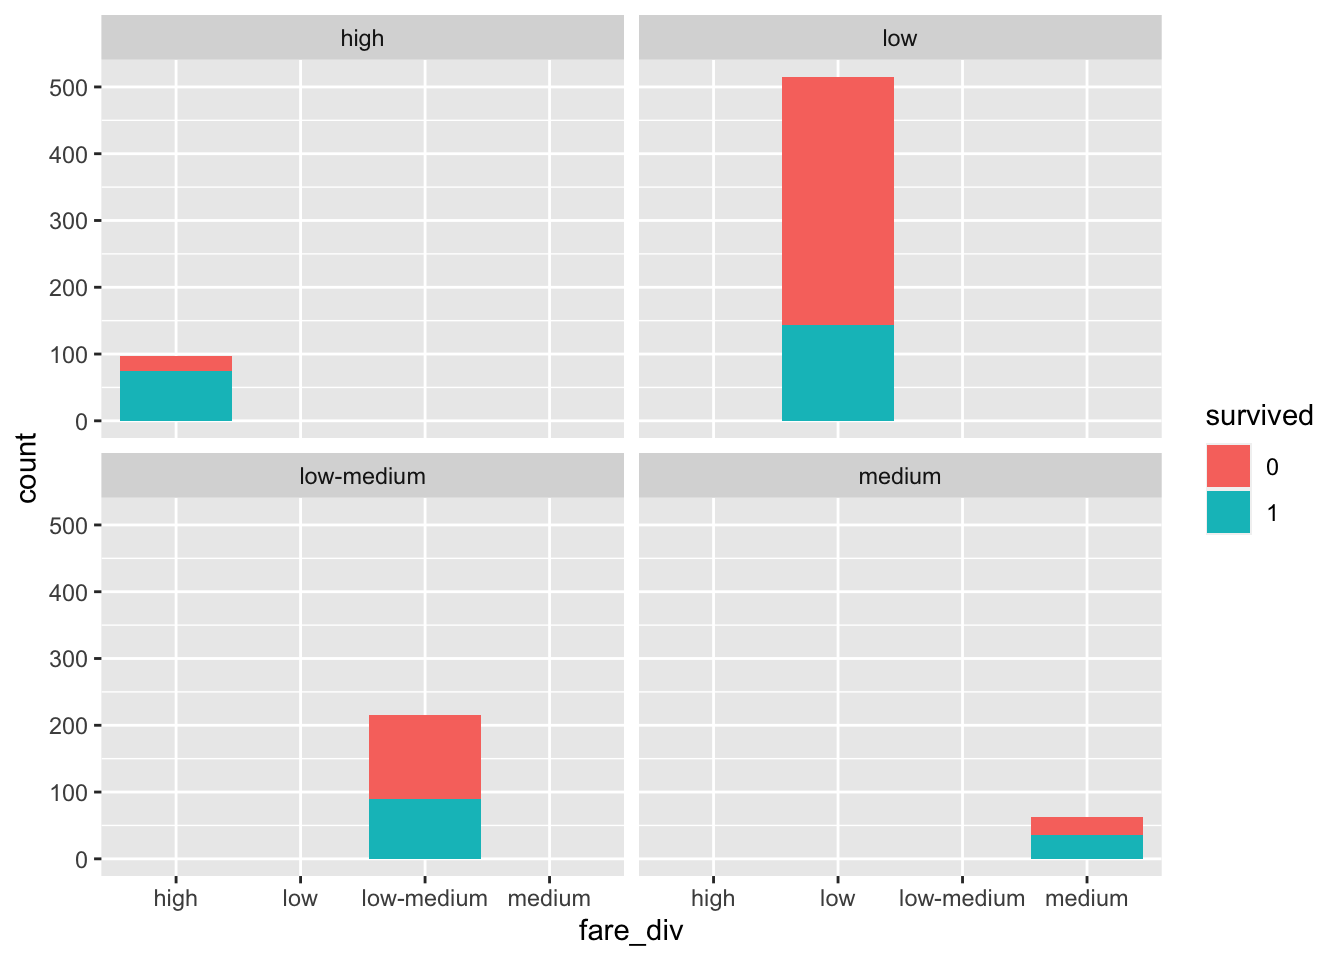
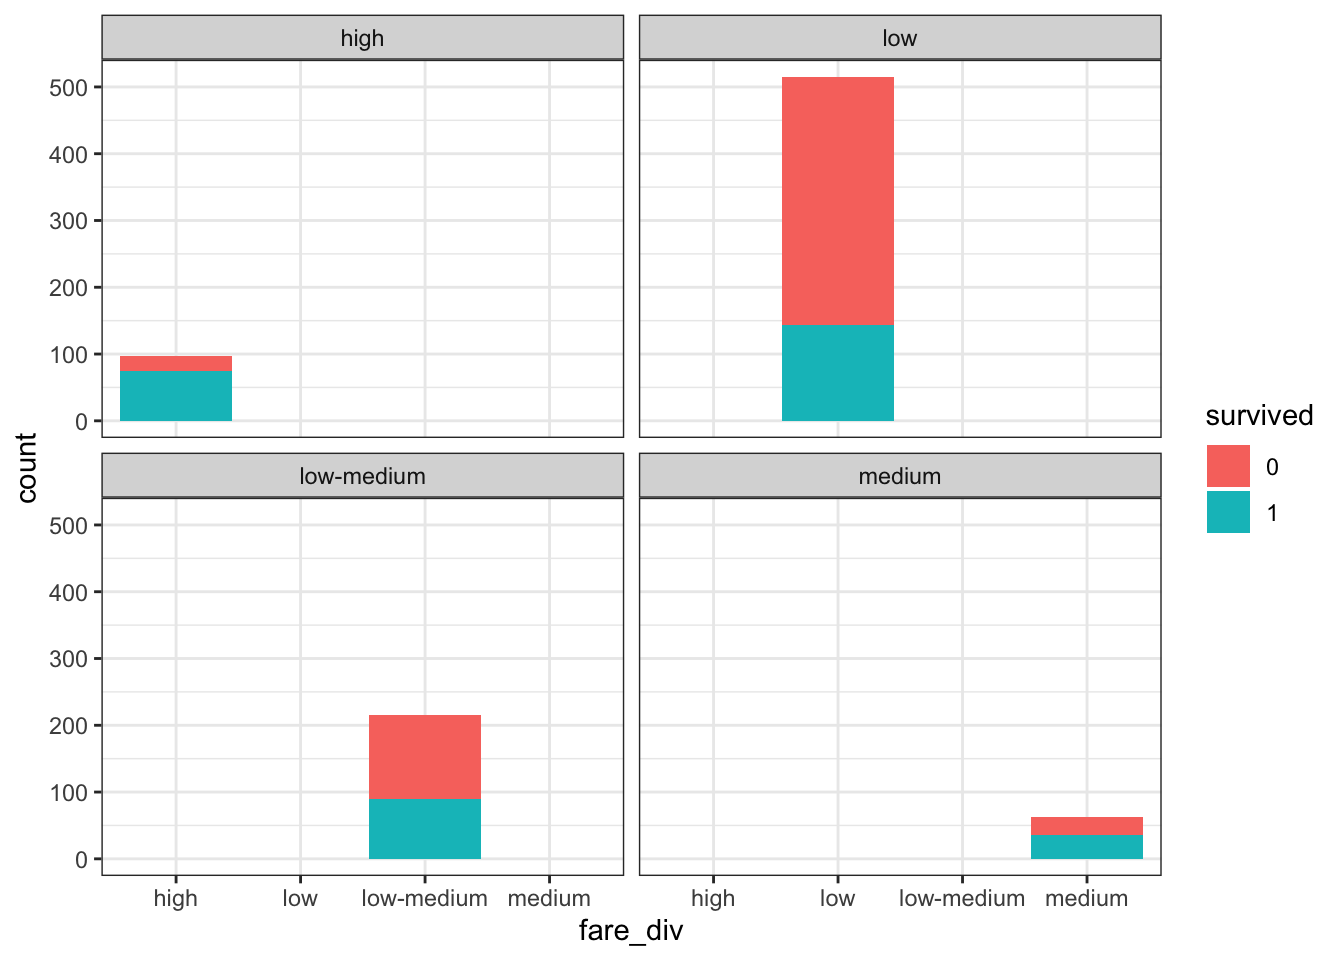
.

diff --git a/Titanic.html b/Titanic.html
@@ -69,6 +69,7 @@ h6 {
 }
 </style>
 
+<link rel="stylesheet" href="style.css" type="text/css" />
 
 
 
@@ -361,7 +362,7 @@ df_titanic %&gt;% count(fare, sort =  TRUE)</code></pre>
 <pre class="r"><code>df_titanic &lt;- df_titanic %&gt;% mutate(fare_div = ifelse(fare &lt;= 20, &quot;low&quot;,
                                    ifelse(fare&gt;20 &amp; fare&lt;=50, &quot;low-medium&quot;,
                                           ifelse(fare&gt;50 &amp; fare&lt;= 75, &quot;medium&quot;, &quot;high&quot;))))
-df_titanic %&gt;% filter(survived %in% c(0,1)) %&gt;% ggplot( aes(x = fare_div, fill = as.factor(survived))) + geom_bar() + labs(fill = &quot;survived&quot;) +facet_wrap(~fare_div)</code></pre>
+df_titanic %&gt;% filter(survived %in% c(0,1)) %&gt;% ggplot( aes(x = fare_div, fill = as.factor(survived))) + geom_bar() + labs(fill = &quot;survived&quot;) +facet_wrap(~fare_div) + theme_bw()</code></pre>
 <p><img src="Titanic_files/figure-html/unnamed-chunk-6-1.png" width="672" /></p>
 <p><strong>Plotting according to newly generated data, title and displaying survived data.</strong></p>
 <pre class="r"><code>df_titanic %&gt;% filter(survived %in% c(0,1)) %&gt;% ggplot( aes(x = pclass, fill = as.factor(survived))) + geom_bar() + labs(fill = &quot;survived&quot;) +facet_wrap(~title) + theme_bw()</code></pre>
@@ -400,15 +401,15 @@ final_df %&gt;% count(survived, sort = TRUE)</code></pre>
 <pre><code>## 
  plot: [1,1] [==&gt;-------------------------------------------------------------]  4% est: 0s 
  plot: [1,2] [====&gt;-----------------------------------------------------------]  8% est: 1s 
- plot: [1,3] [=======&gt;--------------------------------------------------------] 12% est: 2s 
+ plot: [1,3] [=======&gt;--------------------------------------------------------] 12% est: 1s 
  plot: [1,4] [=========&gt;------------------------------------------------------] 16% est: 2s 
  plot: [1,5] [============&gt;---------------------------------------------------] 20% est: 2s 
- plot: [2,1] [==============&gt;-------------------------------------------------] 24% est: 1s `stat_bin()` using `bins = 30`. Pick better value with `binwidth`.
+ plot: [2,1] [==============&gt;-------------------------------------------------] 24% est: 2s `stat_bin()` using `bins = 30`. Pick better value with `binwidth`.
 ## 
  plot: [2,2] [=================&gt;----------------------------------------------] 28% est: 2s 
  plot: [2,3] [===================&gt;--------------------------------------------] 32% est: 2s 
- plot: [2,4] [======================&gt;-----------------------------------------] 36% est: 1s 
- plot: [2,5] [=========================&gt;--------------------------------------] 40% est: 1s 
+ plot: [2,4] [======================&gt;-----------------------------------------] 36% est: 2s 
+ plot: [2,5] [=========================&gt;--------------------------------------] 40% est: 2s 
  plot: [3,1] [===========================&gt;------------------------------------] 44% est: 1s `stat_bin()` using `bins = 30`. Pick better value with `binwidth`.
 ## 
  plot: [3,2] [==============================&gt;---------------------------------] 48% est: 1s 
@@ -420,7 +421,7 @@ final_df %&gt;% count(survived, sort = TRUE)</code></pre>
  plot: [4,2] [===========================================&gt;--------------------] 68% est: 1s 
  plot: [4,3] [=============================================&gt;------------------] 72% est: 1s 
  plot: [4,4] [================================================&gt;---------------] 76% est: 1s 
- plot: [4,5] [==================================================&gt;-------------] 80% est: 0s 
+ plot: [4,5] [==================================================&gt;-------------] 80% est: 1s 
  plot: [5,1] [=====================================================&gt;----------] 84% est: 0s `stat_bin()` using `bins = 30`. Pick better value with `binwidth`.
 ## 
  plot: [5,2] [=======================================================&gt;--------] 88% est: 0s 

diff --git a/index.html b/index.html
@@ -9,11 +9,9 @@
 <meta http-equiv="X-UA-Compatible" content="IE=EDGE" />
 
 
-<meta name="author" content="Dinesh" />
 
-<meta name="date" content="2020-05-07" />
 
-<title>Home</title>
+<title>RMarkdown Webpage</title>
 
 <script src="site_libs/jquery-1.11.3/jquery.min.js"></script>
 <meta name="viewport" content="width=device-width, initial-scale=1" />
@@ -70,6 +68,7 @@ h6 {
 }
 </style>
 
+<link rel="stylesheet" href="style.css" type="text/css" />
 
 
 
@@ -300,24 +299,19 @@ $(document).ready(function () {
 
 
 
-<h1 class="title toc-ignore">Home</h1>
-<h4 class="author">Dinesh</h4>
-<h4 class="date">05/07/2020</h4>
+<h1 class="title toc-ignore">RMarkdown Webpage</h1>
 
 </div>
 
 
-<script type="text/javascript">
-$("#rStudioHeader").removeClass("alwaysShrunk");
-$("#pageContent").removeClass("standardPadding");
-</script>
-<!--html_preserve-->
-&lt;div id = &quot;homecontent&gt;
-<div>
-Analyze. Share. Reproduce. Data tells a story. Tell it with R Markdown. Turn your analyses into high quality documents, reports, presentations and dashboards.
-</div>
-</div>
-<!--html_preserve-->
+<p>R Markdown provides an unified authoring framework for data science, combining your code, its results, and your prose commentary. R Markdown documents are fully reproducible and support dozens of output formats, like PDFs, Word files, slideshows, and more.</p>
+<p>R Markdown files are designed to be used in three ways:</p>
+<ol style="list-style-type: decimal">
+<li><p>For communicating to decision makers, who want to focus on the conclusions, not the code behind the analysis.</p></li>
+<li><p>For collaborating with other data scientists (including future you!), who are interested in both your conclusions, and how you reached them ( i.e. the code).</p></li>
+<li><p>As an environment in which to do data science, as a modern day lab notebook where you can capture not only what you did, but also what you were thinking.</p></li>
+</ol>
+<p>In addition, you can check my ShinyApp <a href="https://dhunganadinesh.shinyapps.io/Myreport/">here.</a></p>
 
 
 

diff --git a/hotel_booking.html b/hotel_booking.html
@@ -68,6 +68,7 @@ h6 {
 }
 </style>
 
+<link rel="stylesheet" href="style.css" type="text/css" />
 
 
 
@@ -363,13 +364,13 @@ hotel_stayed &lt;- hotel_stayed %&gt;%
 <pre><code>## 
  plot: [1,1] [===&gt;------------------------------------------------------------]  6% est: 0s 
  plot: [1,2] [=======&gt;--------------------------------------------------------] 12% est: 2s 
- plot: [1,3] [===========&gt;----------------------------------------------------] 19% est: 3s 
+ plot: [1,3] [===========&gt;----------------------------------------------------] 19% est: 4s 
  plot: [1,4] [===============&gt;------------------------------------------------] 25% est: 3s 
  plot: [2,1] [===================&gt;--------------------------------------------] 31% est: 3s `stat_bin()` using `bins = 30`. Pick better value with `binwidth`.
 ## 
  plot: [2,2] [=======================&gt;----------------------------------------] 38% est: 3s 
- plot: [2,3] [===========================&gt;------------------------------------] 44% est: 2s 
- plot: [2,4] [===============================&gt;--------------------------------] 50% est: 2s 
+ plot: [2,3] [===========================&gt;------------------------------------] 44% est: 3s 
+ plot: [2,4] [===============================&gt;--------------------------------] 50% est: 3s 
  plot: [3,1] [===================================&gt;----------------------------] 56% est: 2s 
  plot: [3,2] [=======================================&gt;------------------------] 62% est: 2s `stat_bin()` using `bins = 30`. Pick better value with `binwidth`.
 ## 

diff --git a/about.html b/about.html
@@ -68,6 +68,7 @@ h6 {
 }
 </style>
 
+<link rel="stylesheet" href="style.css" type="text/css" />
 
 
 

diff --git a/sentiment.html b/sentiment.html
@@ -69,6 +69,7 @@ h6 {
 }
 </style>
 
+<link rel="stylesheet" href="style.css" type="text/css" />
 
 
 
